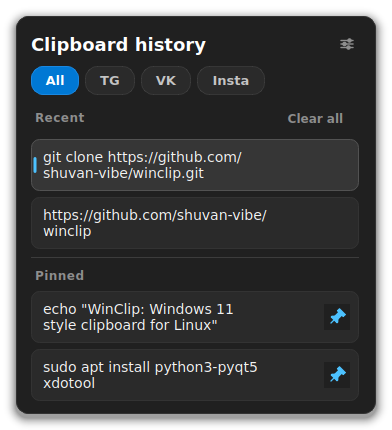
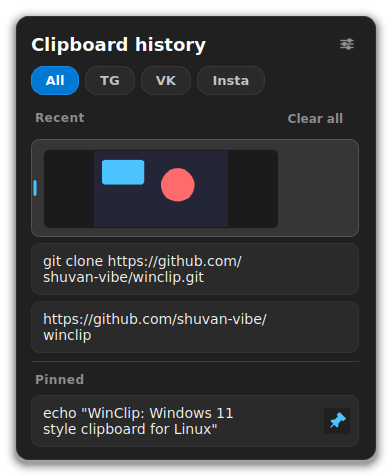
style: remove text and dimensions from image cards, show clean full-width image thumbnail

diff --git a/winclip_app.py b/winclip_app.py
@@ -498,8 +498,8 @@ class TextPreview(QWidget):
 class ImagePreview(QWidget):
     """Rounded, aspect-fit thumbnail loaded at display size (never full size)."""
 
-    THUMB_WIDTH = 112
-    THUMB_HEIGHT = 64
+    THUMB_WIDTH = 236
+    THUMB_HEIGHT = 80
 
     def __init__(self, path: Optional[Path], parent: Optional[QWidget] = None) -> None:
         super().__init__(parent)
@@ -528,16 +528,16 @@ class ImagePreview(QWidget):
     def paintEvent(self, event) -> None:  # noqa: N802
         painter = QPainter(self)
         painter.setRenderHint(QPainter.Antialiasing)
-        outer = QRectF(self.rect())
-        painter.setPen(Qt.NoPen)
-        painter.setBrush(QColor("#242424"))
-        painter.drawRoundedRect(outer, 5, 5)
+        outer = QRectF(self.rect()).adjusted(0.5, 0.5, -0.5, -0.5)
+        painter.setPen(QPen(QColor("#333333"), 1))
+        painter.setBrush(QColor("#1b1b1b"))
+        painter.drawRoundedRect(outer, 6, 6)
         if self._pixmap is None:
             painter.setPen(QColor(COLOR_MUTED))
             painter.drawText(self.rect(), Qt.AlignCenter, "Image unavailable")
             return
         scaled = self._pixmap.size().scaled(
-            QSize(self.THUMB_WIDTH, self.THUMB_HEIGHT), Qt.KeepAspectRatio
+            QSize(self.THUMB_WIDTH - 4, self.THUMB_HEIGHT - 4), Qt.KeepAspectRatio
         )
         target = QRectF(
             (self.width() - scaled.width()) / 2.0,
@@ -546,7 +546,7 @@ class ImagePreview(QWidget):
             scaled.height(),
         )
         clip = QPainterPath()
-        clip.addRoundedRect(outer, 5, 5)
+        clip.addRoundedRect(outer.adjusted(1, 1, -1, -1), 5, 5)
         painter.save()
         painter.setClipPath(clip)
         painter.drawPixmap(target, self._pixmap, QRectF(self._pixmap.rect()))
@@ -593,30 +593,10 @@ class ClipCard(QWidget):
         row.setSpacing(8)
 
         if item["type"] == "image":
-            content = QWidget(self)
-            content.setAttribute(Qt.WA_TransparentForMouseEvents, True)
-            content_layout = QHBoxLayout(content)
-            content_layout.setContentsMargins(0, 0, 0, 0)
-            content_layout.setSpacing(10)
-            content_layout.addWidget(ImagePreview(image_path, content), 0, Qt.AlignVCenter)
-            meta = QWidget(content)
-            meta.setAttribute(Qt.WA_TransparentForMouseEvents, True)
-            meta_layout = QVBoxLayout(meta)
-            meta_layout.setContentsMargins(0, 0, 0, 0)
-            meta_layout.setSpacing(2)
-            title = QLabel("Image")
-            title.setStyleSheet(f"color: {COLOR_TEXT}; font-size: 10pt;")
-            dims = QLabel(f"{item.get('width', '?')} × {item.get('height', '?')}")
-            dims.setStyleSheet(f"color: {COLOR_MUTED}; font-size: 9pt;")
-            for label in (title, dims):
-                label.setAttribute(Qt.WA_TransparentForMouseEvents, True)
-            meta_layout.addWidget(title)
-            meta_layout.addWidget(dims)
-            meta_layout.addStretch(1)
-            content_layout.addWidget(meta, 1, Qt.AlignVCenter)
-            content.setFixedWidth(PREVIEW_WIDTH)
-            row.addWidget(content, 0, Qt.AlignVCenter)
-            card_height = ImagePreview.THUMB_HEIGHT + 20
+            preview = ImagePreview(image_path, self)
+            preview.setToolTip(f"{item.get('width', '?')} × {item.get('height', '?')}")
+            row.addWidget(preview, 0, Qt.AlignVCenter)
+            card_height = ImagePreview.THUMB_HEIGHT + 18
         else:
             preview = TextPreview(str(item.get("text", "")), font, self)
             row.addWidget(preview, 0, Qt.AlignVCenter)
